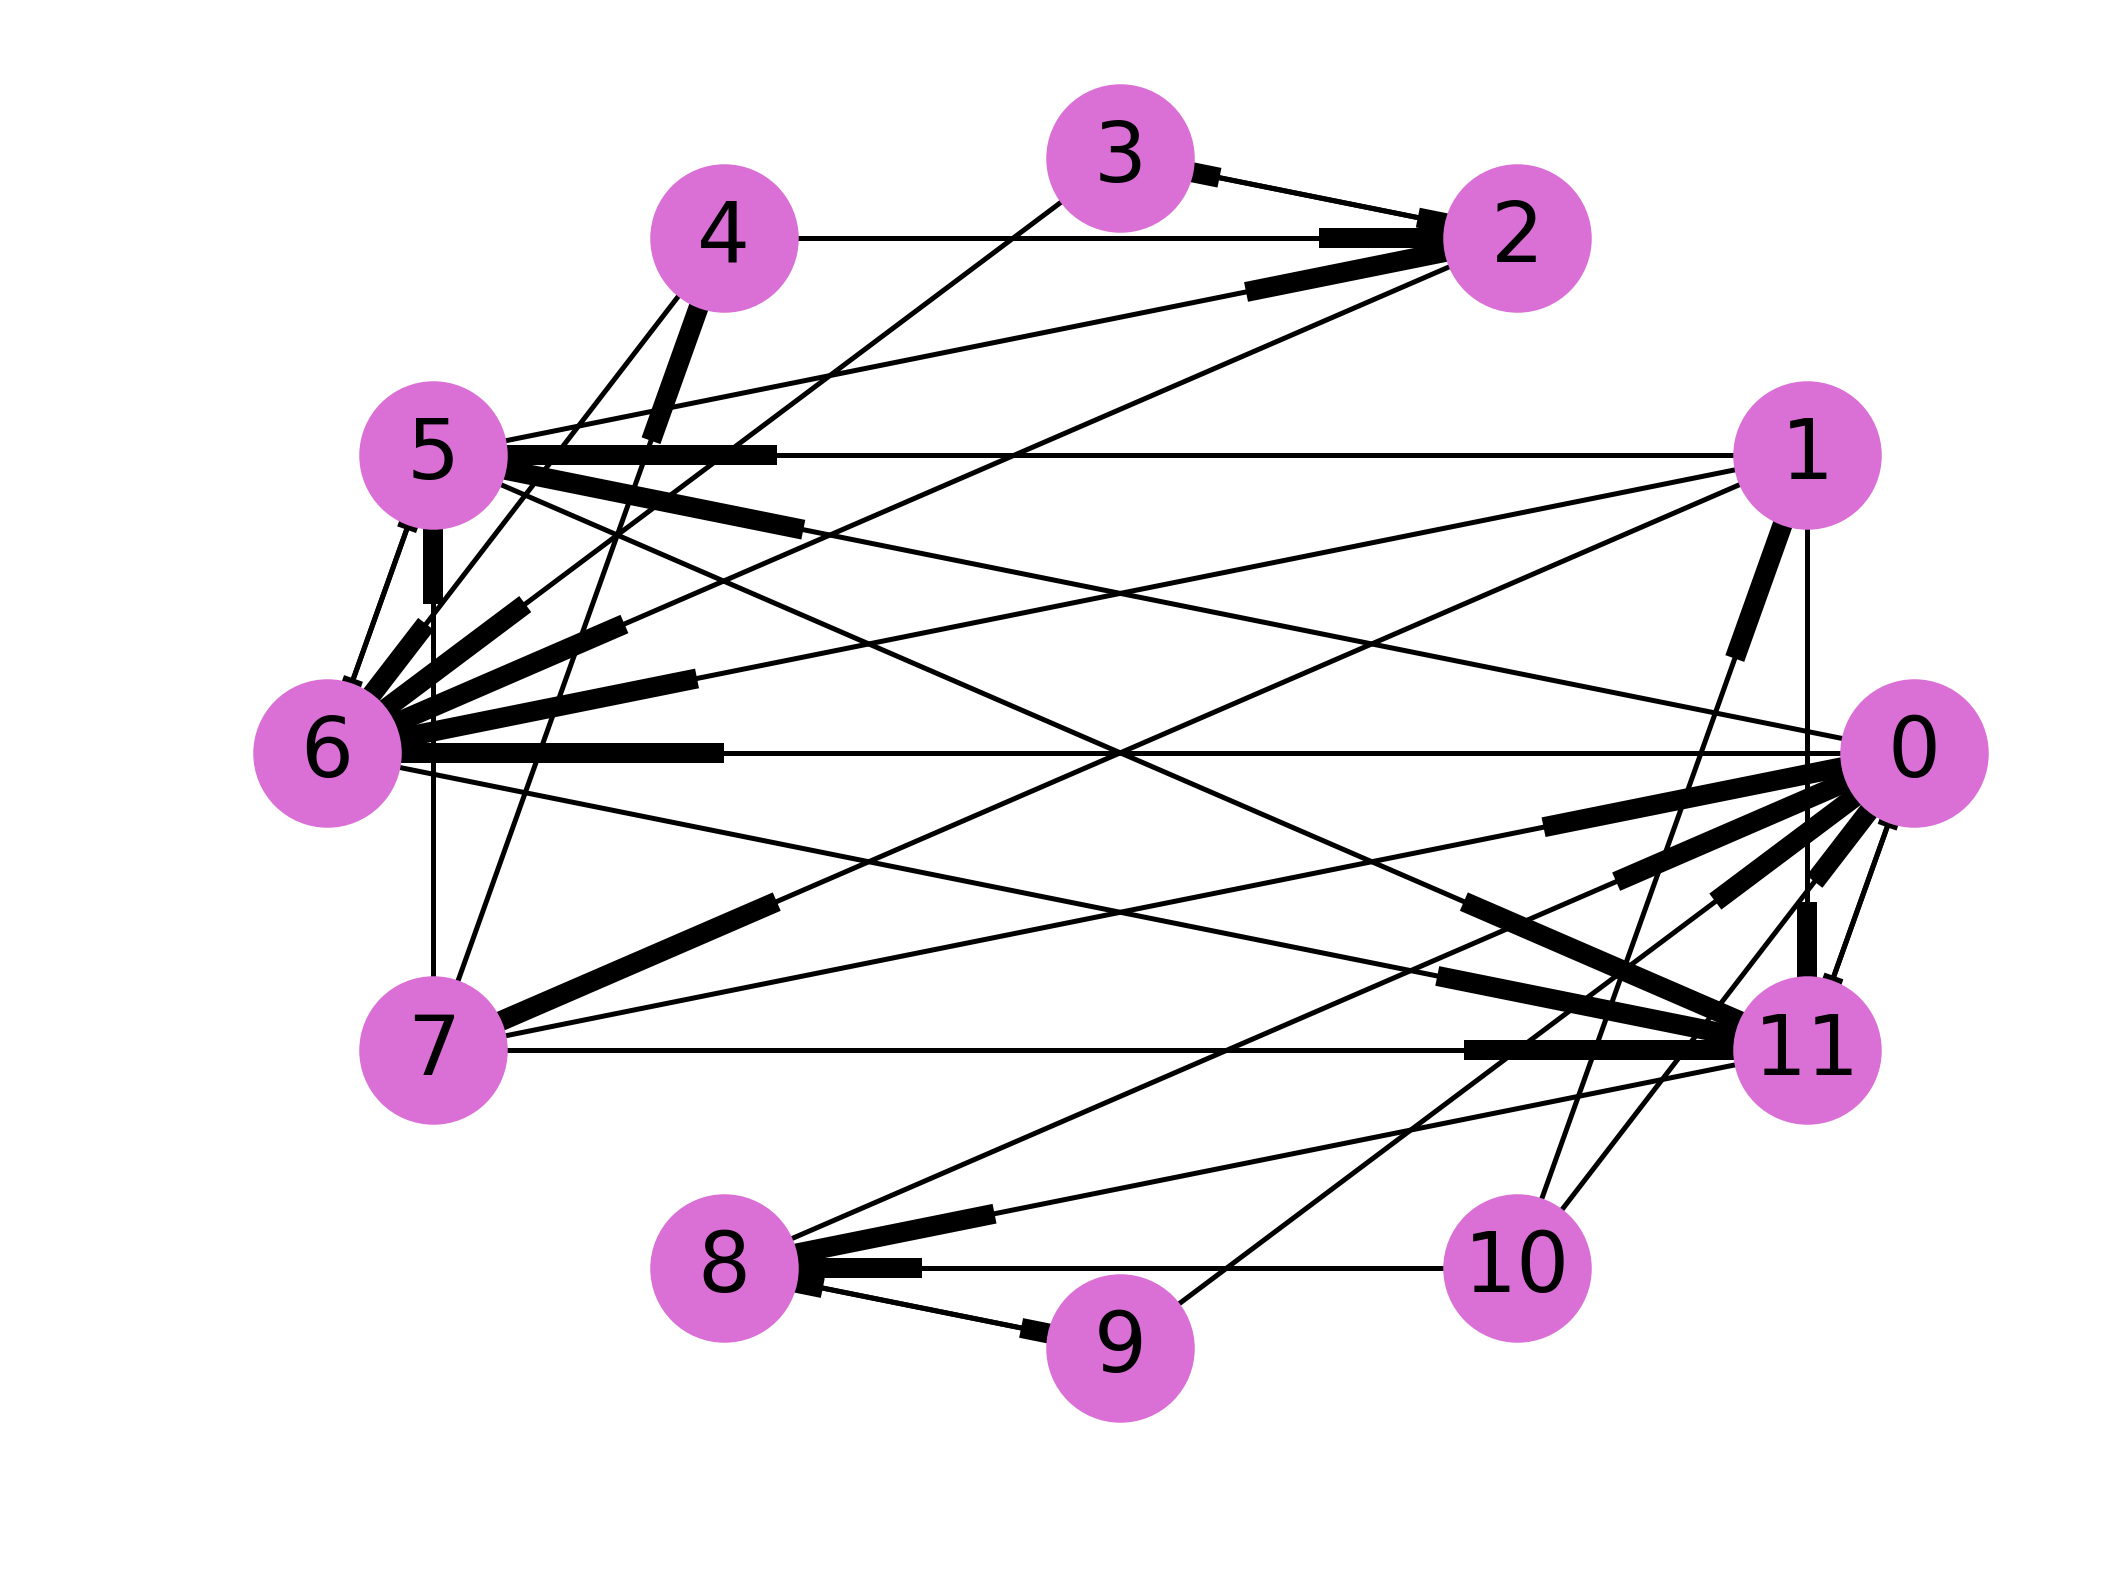
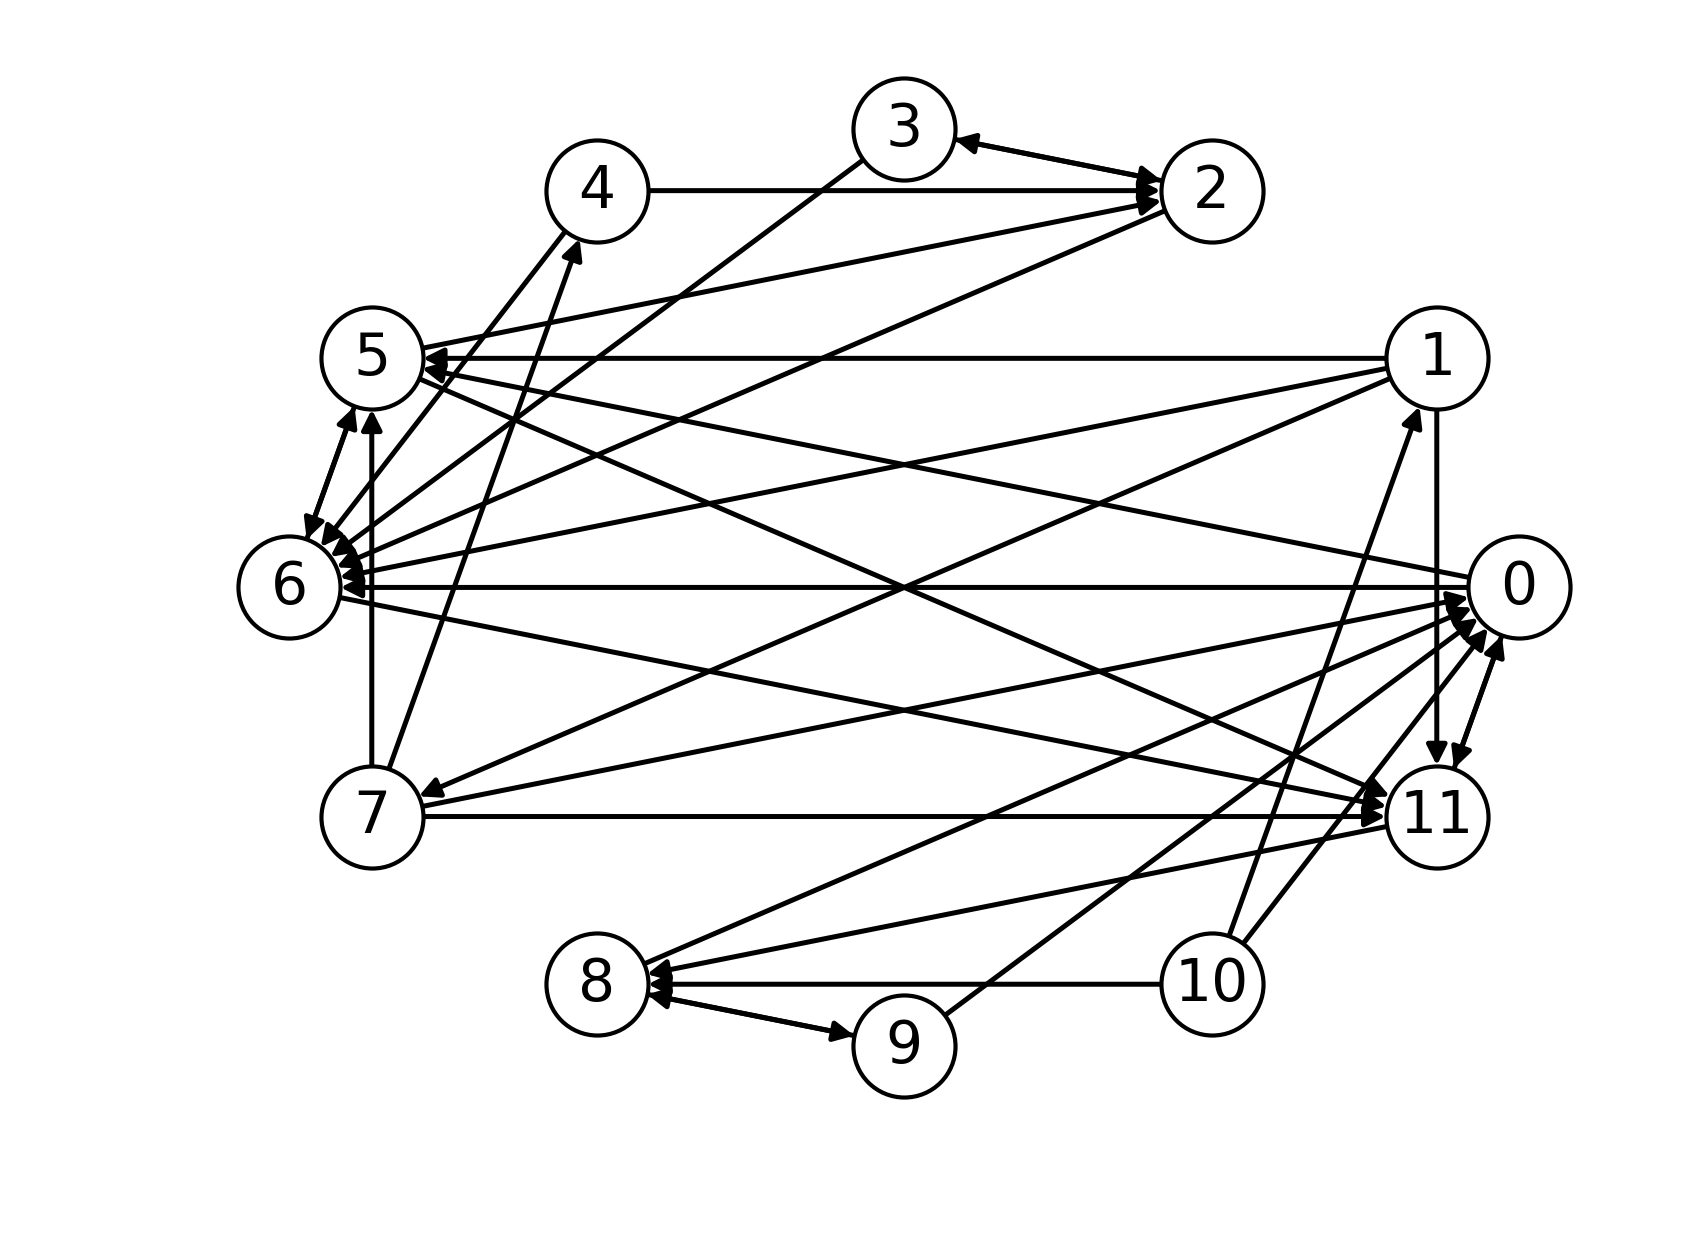
viz_utils: update the drawing of safe graph (wafr paper figure 8)

Changed region(s): [[0.0928, 0.0306, 0.959, 0.9171]]

diff --git a/viz_utils.py b/viz_utils.py
@@ -99,11 +99,23 @@ def PlotLinkDiagram(poly, link_diagram, resolution = 15, hline = None, fname = '
 
 def PlotGraph(G, fname = "graph"):
     plt.clf()
-    nx.draw_circular(G, with_labels=True,
-        node_color='#DA70D6',
-        arrowsize=20, arrowstyle='fancy',
+    pos = nx.circular_layout(G)
+    labels = nx.get_edge_attributes(G,'weight')
+    new_pos = dict()
+    count = 0
+    for i in pos:
+        new_pos[count] = pos[i]
+        count += 1
+    nx.draw_networkx(G, with_labels=True,
+        pos = new_pos,
+        node_color='white',
         width=1.2,
-        node_size = 1200, font_size=20)
+        node_size = 600, 
+        font_size=14)
+    # nx.draw_networkx_edge_labels(G,new_pos,edge_labels=labels)
+    plt.axis('off')
+    ax = plt.gca()
+    ax.collections[0].set_edgecolor('black') 
     plt.savefig(fname+".png", bbox_inches="tight", dpi = 300)
 
 def VizPath(poly, intervals):

diff --git a/graph_utils.py b/graph_utils.py
@@ -145,14 +145,16 @@ def mkSafeGraph(G, poly):
     new_edges = []
     viz_verts = mkVizSets(poly)
     for i in H.nodes():
-        outgoing = G.edge[i]
+        outgoing = G.edges([i])
         vset = viz_verts[i]+[i]
         for e in outgoing:
+            e = e[1]
             e1 = (poly[i], poly[(i+1)%psize])
             e2 = (poly[e], poly[(e+1)%psize])
             e_viz = (e in vset) and ((e+1)%psize in vset)
             if SafeAngles(e1,e2) and e_viz:
-                new_edges.append((i,e,SafeAngles(e1,e2)))
+                curr_weight = '{0:.2f}'.format(SafeAngles(e1,e2)[1])
+                new_edges.append((i,e,curr_weight))
     H.add_weighted_edges_from(new_edges)
     if DEBUG:
         print("Safe graph data:")

diff --git a/wafr_paper_fig_8.py b/wafr_paper_fig_8.py
@@ -1,0 +1,12 @@
+#! /usr/bin/env python3
+
+from maps import *
+from viz_utils import *
+
+if __name__ == '__main__':
+    poly = simple_bit
+    p1 = InsertAllTransitionPts(poly)
+    VizPoly(p1)
+    G = mkGraph(p1, requireContract = False)
+    H = mkSafeGraph(G, p1)
+    PlotGraph(H, "safe_graph")
